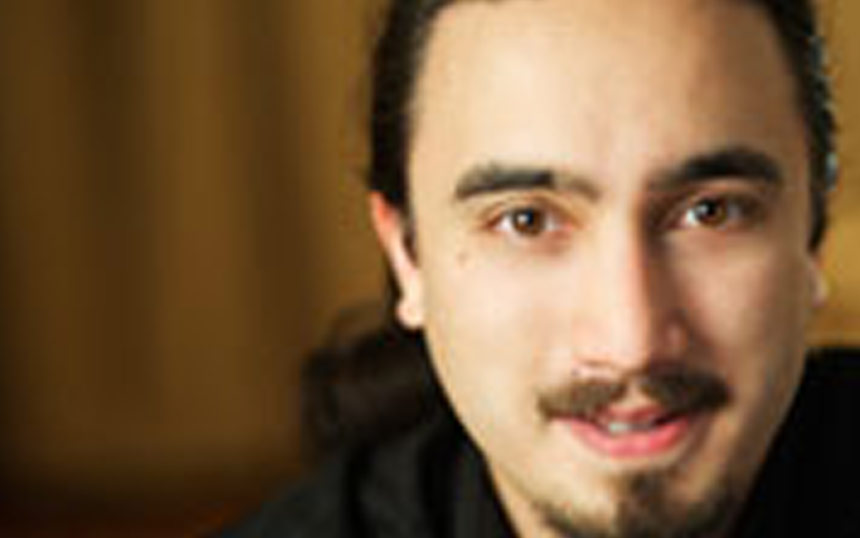
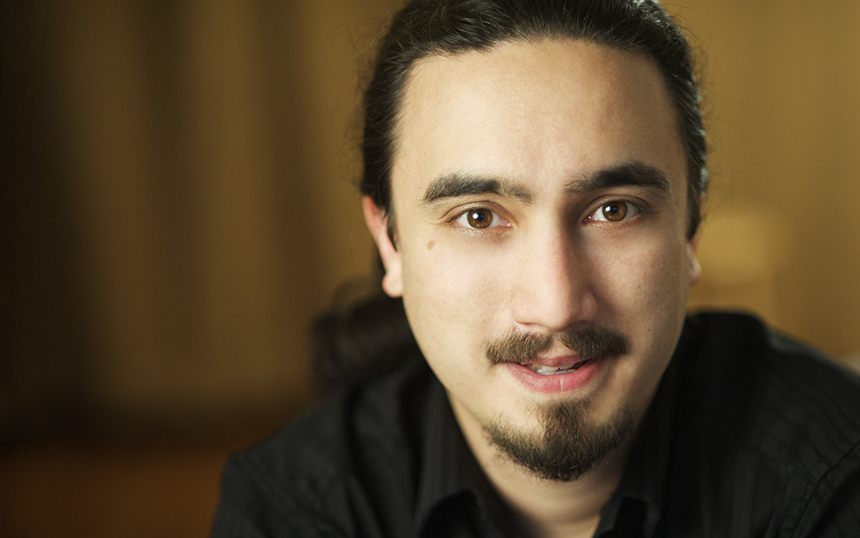
updated footer & jon's photo

diff --git a/source/stylesheets/_layout.css.scss b/source/stylesheets/_layout.css.scss
@@ -240,12 +240,13 @@ body {
 
   .addrcol p.address {
         margin-top:0px;
-        margin-bottom:7px;
+        margin-bottom:0px;
         //margin-top:10px;
         //display:inline-block;  
   }
     
  .addrcol{
+     text-align:right;
     p.address, #phoneNum, p.mail {
         display:inline-block;   
          margin-right:10px;
@@ -254,7 +255,7 @@ body {
     
   #phoneNum {
     margin-top:0px;
-    margin-bottom:7px;  
+    margin-bottom:0px;  
     //display:inline-block;
     //margin-left:40px;
   }
@@ -263,7 +264,7 @@ body {
   .addrcol, .linkscol {
       
     p {
-        margin-bottom:1.2rem;  
+        margin-bottom:0px;  
     } 
      
   }

diff --git a/source/javascripts/worknav.js b/source/javascripts/worknav.js
@@ -57,7 +57,7 @@ $( document ).ready(function() {
     
     if(index > 0) {
         console.log(index);
-        imgURL = "/images/clients/" + projects[index].title.toLowerCase() + "/" + projects[index].image;
+        imgURL = "/goinvo-temp/images/clients/" + projects[index].title.toLowerCase() + "/" + projects[index].image;
         
         next.css("background", "linear-gradient(to bottom, rgba(2,0,0,0.32) 0%,rgba(2,0,0,0.32) 12%,rgba(0,0,0,0.32) 100%), url(" + imgURL + ")");
         next.css("background-size", "cover");

diff --git a/source/stylesheets/sections/complex-case-studies.css.scss b/source/stylesheets/sections/complex-case-studies.css.scss
@@ -229,3 +229,24 @@ article#complex-case {
     }
     
 }
+
+.row#next-project {
+    max-width:100%;
+    height:200px;
+    margin-top:20px;
+    cursor:pointer;
+    background-size:cover;
+    
+    div.next-title {
+        margin-top: 80px;
+        color:#f7f7f7;
+        font-size: 3rem;
+        line-height: 3rem;
+        font-weight: 800;
+        
+        span {
+            font-size: 4rem;
+        line-height: 4rem;
+        }
+    }
+}
